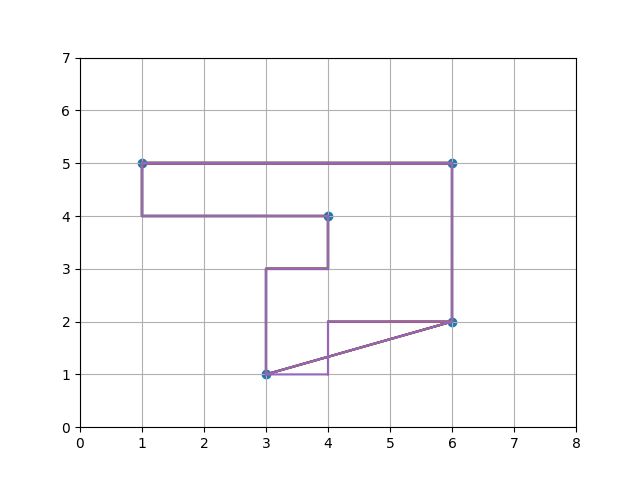
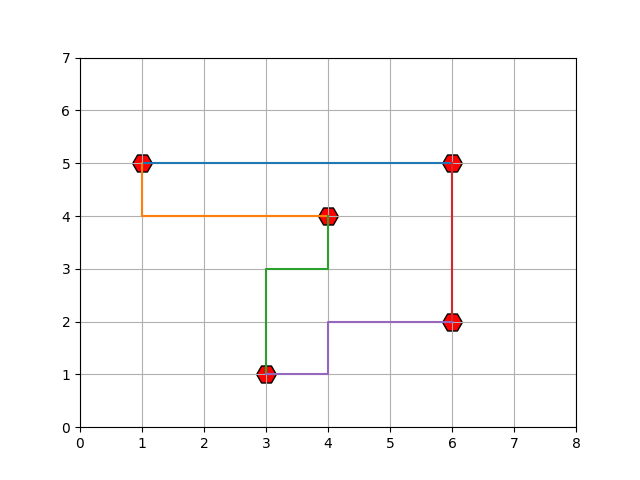
improved visualisation

Changed region(s): [[0.1875, 0.3125, 0.7188, 0.8125]]

diff --git a/code/visualisation/matplot.py b/code/visualisation/matplot.py
@@ -4,35 +4,34 @@ import matplotlib.pyplot as plt
 import numpy as np
 
 def visualise(gates, output_dict, x, y):
+
+    # clear previous plot
     plt.clf()
+
+    # create grid
     plt.xlim(0.0, x, 1.0)
     plt.ylim(0.0, y, 1.0)
     plt.grid(True)
 
+    # create lines
+    for wires in output_dict.values():
+        line_x = []
+        line_y = []
+        for cor in wires:
+            line_x.append(cor[0])
+            line_y.append(cor[1])
+        plt.plot(line_x, line_y)
+
+
+    # create scatterplot
     cor_x = []
     cor_y = []
 
     for gate in gates:
         cor_x.append(gate[0])
         cor_y.append(gate[1])
+    plt.scatter(cor_x, cor_y, marker='H', c='r', s=200, edgecolors='k')
 
-    plt.scatter(cor_x, cor_y)
-
-    line_x = []
-    line_y = []
-
-    for wires in output_dict.values():
-        print("wires:", wires)
-        for cor in wires:
-            line_x.append(cor[0])
-            line_y.append(cor[1])
-            plt.plot(line_x, line_y)
-
-    print(line_x)
-    print(line_y)
-
-
-
+    # show plot
     plt.savefig("test1.png")
-
     plt.show()

diff --git a/main.py b/main.py
@@ -14,13 +14,13 @@ from code.visualisation import matplot
 
 if __name__ == '__main__':
 
-    filename = input("Enter the filename of your print.\n")
+    # filename = input("Enter the filename of your print.\n")
 
-    chip = chip.Chip(filename)
+    chip = chip.Chip('print.csv')
 
-    netlist_name = input("Enter the filename of the netlist to use.\n")
+    # netlist_name = input("Enter the filename of the netlist to use.\n")
 
-    netlist = netlist.Netlist(netlist_name, chip.gates)
+    netlist = netlist.Netlist('netlist.csv', chip.gates)
 
     wiring = wiring.Wiring(netlist, chip)
 

diff --git a/code/classes/netlist.py b/code/classes/netlist.py
@@ -20,7 +20,7 @@ class Netlist():
 	def netlist(self, filename):
 		""" Create list type netlist from csv file. """
 
-		with open(f'data/chip_1/{filename}') as in_file:
+		with open(f'data/test/{filename}') as in_file:
 			netlist_reader = csv.reader(in_file)
 			next(netlist_reader)
 

diff --git a/code/classes/chip.py b/code/classes/chip.py
@@ -24,7 +24,7 @@ class Chip(object):
 		gates = {}
 
 		# get gate coordinates from csv file
-		with open(f'data/chip_1/{filename}') as in_file:
+		with open(f'data/test/{filename}') as in_file:
 			chip_reader = csv.reader(in_file)
 			next(chip_reader)
 
